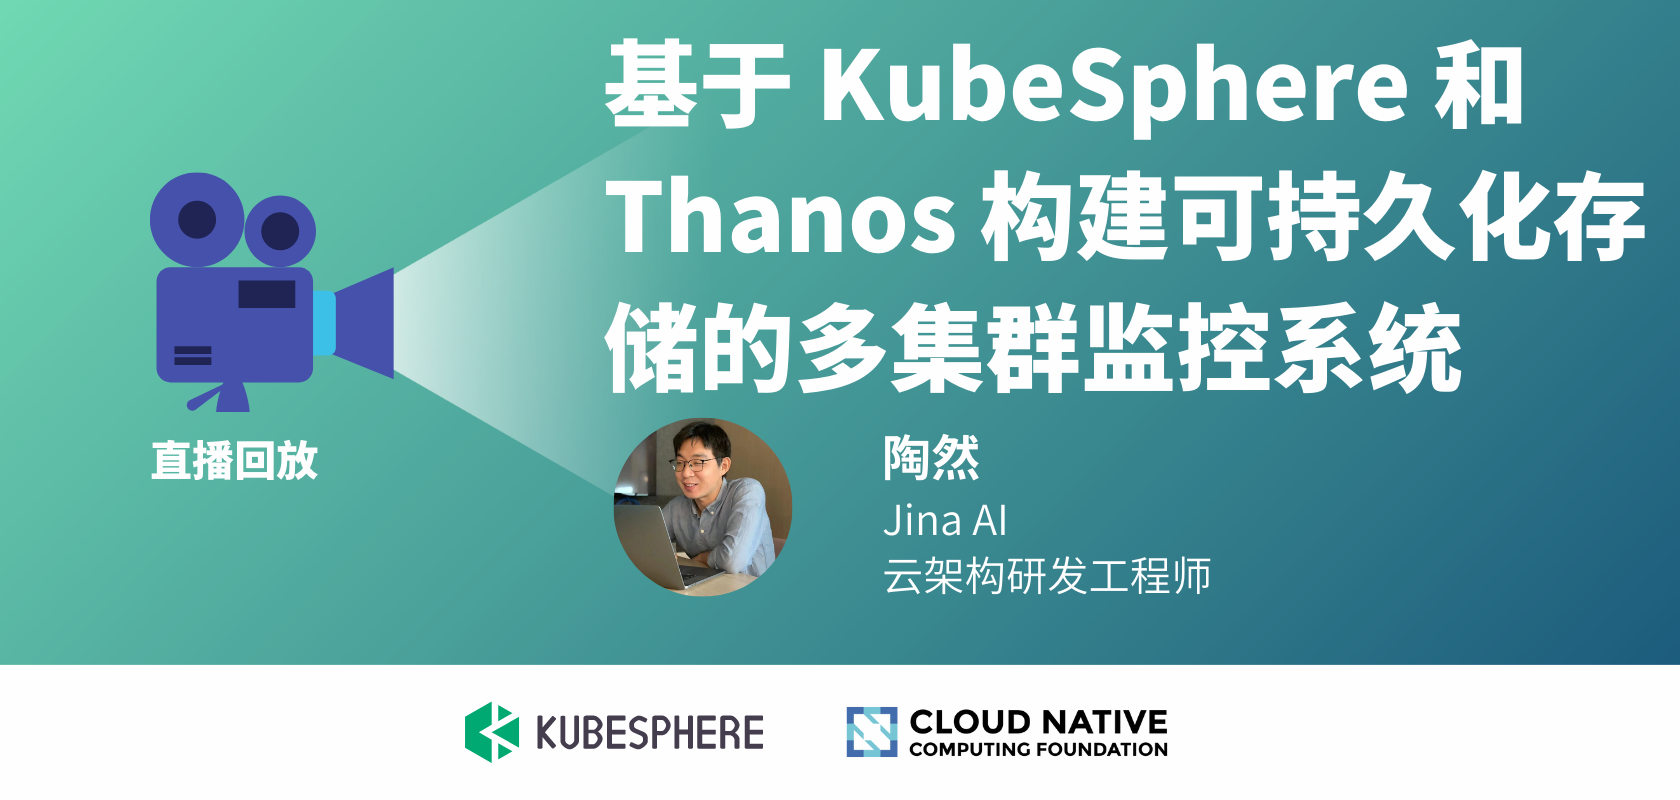
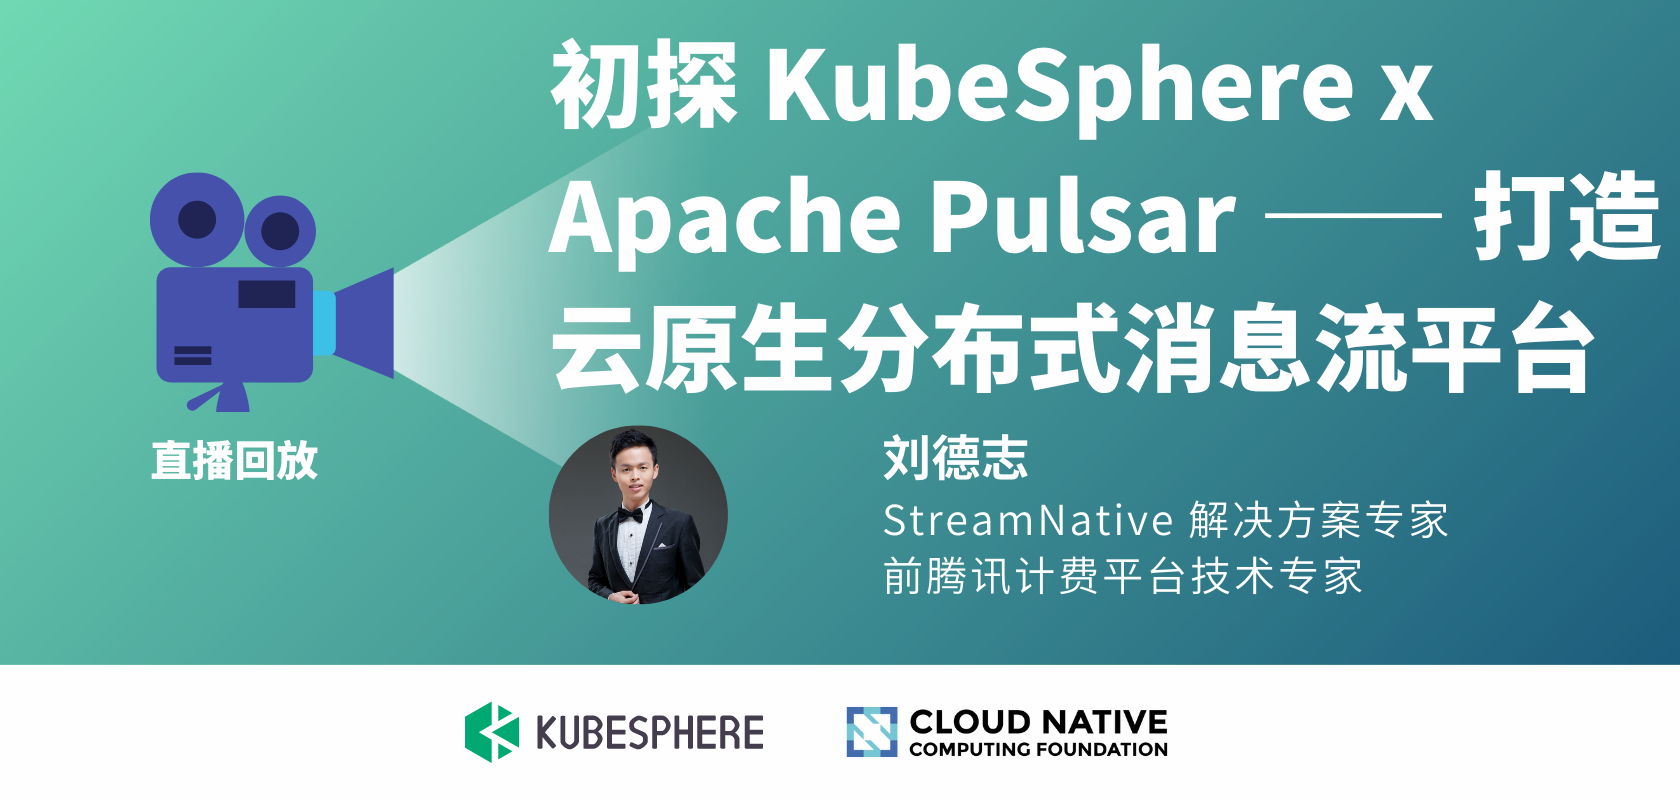
update the page of live

diff --git a/content/zh/live/pulsar0609-live.md b/content/zh/live/pulsar0609-live.md
@@ -6,7 +6,7 @@ css: scss/live-detail.scss
 
 section1:
   snapshot: 
-  videoUrl: 
+  videoUrl: //player.bilibili.com/player.html?aid=727291246&bvid=BV1xS4y1i7Yx&cid=742553663&page=1&high_quality=1
   type: iframe
   time: 2022-06-09 20:00-21:00
   timeIcon: /images/live/clock.svg
@@ -32,3 +32,35 @@ Apache Pulsar 是新一代云原生分布式消息队列，其独有的存储计
 ## 直播地址
 
 B 站  http://live.bilibili.com/22580654
+
+## PPT 下载
+
+可扫描官网底部二维码，关注 「KubeSphere云原生」公众号，后台回复 `20220609` 即可下载 PPT。
+
+## Q & A
+
+### Q1：Pulsar 是如何使用分层分片的架构来解决使用和运维的痛点的？
+
+A：Apache Pulsar 采用的计算存储分离的架构，首先可以更好的利用资源，根据计算层和存储层对资源的要求不同灵活搭配，以及使用情况进行细粒度资源调整。其次分片模式，突破以往 Topic 数据与机器强绑定的模式，避免了数据分布不均衡和扩容时带来大量数据迁移再平衡的问题，极大提升运维体验。
+
+### Q2：Pulsar 能够满足大数据计算框架中的批流一体的存储需求吗？
+
+A：本身Apache Pulsar 采用 Bookeeper 提供了流数据的存储，同时 Pulsar 提供了分级存储能力，可以将 Bookeeper 里的数据卸载到更低廉的存储介质中，例如 HDFS、S3 等，并且提供统一的读取接口，这样基于 Pulsar 能够提供完整的业务数据， 因此像大数据计算框架 Flink 可以利用 pulsar-flink-connector 实现批流计算。
+
+### Q3：Pulsar 和 Spark、Flink 以及批处理中的 Presto 和 Hive 结合有没有实践案例？
+
+A：Bigo 基于 Pulsar 和 Flink 构建了日百亿量级实时数仓，覆盖实时指标计算、用户特征实时更新等场景。智联招聘基于 Pulsar 和 Presto 构建了数据分析平台，支撑了内部报表统计和数据分析。
+
+### Q4：Apache Pulsar 如何保证消息不丢不重？
+
+A：当 broker 接收到写入请求时，会将数据写入到多个 bookie 节点中，也就是多副本保证，bookie 节点收到数据并且持久化成功后返回给 broker 成功应答，当收到一半以上节点的成功应答后，返回给客户端成功，代表该数据写入成功。在可靠性方面，bookie 提供机架感知能力和集群间的跨地域复制能里，来加强数据的可靠性。
+
+消息不重体现在两个方面，生产端的消息不重，对于单分区 Topic 而言，生产消息时可以指定递增的 sequenceId，broker 端根据当前的 sequenceId 和写入的 sequenceId 进行比较，如果小小于当前的 sequenceId 则认为已写入，需要去重。消费端的不重相对要复杂些，因为一个消息是否需要再次消费，取决于业务逻辑处理的情况和 ACK 的时机，例如消费端拉取到消息后，业务逻辑处理超时了，或者业务逻辑处理成功后消费端异常退出了，这种情况一般通过业务幂等来解决 ，当然也可以通过事务来处理。
+
+### Q5：Apache Pulsar 的协议有没有弱点？
+
+A：Apache Pulsar 自身有一套私有化协议，从性能上来看，对于消息体内容采用二进制透传的模式保证性能；从安全上来看，提供了丰富的身份认证和操作鉴权能力；从扩展性上来看，抽象了协议接口，可以方便集成其它协议，目前已支持 Kafka、AMDP、MQTT、RocketMQ 等协议。
+
+### Q6：StreamNative 花费了如此多的时间与精力在 Pulsar 与其社区生态上，是否会造成 Pulsar 与商业公司绑定，削弱项目的开源协作属性呢？
+
+A：Apache Pulsar 项目是 Apache 基金会顶级项目，本身项目的代码所有权、品牌和商标等都属于 Apache 软件基金会，日常由 PMC 管理，StreamNative 组织举办的 Pulsar Summit 、Pulsar Hackathon 每次举办都是经过 PMC 审核通过，组委会成员也要遵循多样性原则进行；日常 Pulsar 重要功能、版本发布，也都是经过社区严格的开发流程、投票流程进行。最根本的一点是 Apache 基金会的项目贡献，都是以个人名义贡献，贡献者只代表个人，这点和其他基金会有区别。 当前 Apache 软件基金会项目的运行规则和机制都保证了项目的独立性。

diff --git a/content/zh/live/_index.md b/content/zh/live/_index.md
@@ -10,22 +10,29 @@ section1:
 
 section2:
   image: /images/live/cloudnative-live-banner.png
-  url: ./jinaai0602-live/
+  url: ./pulsar0609-live/
 
   notice:
-    title: 初探 KubeSphere x Apache Pulsar —— 打造云原生分布式消息流平台
+    title: 云原生数据工厂——中海庭数字化转型之路
     tag: 预告
-    time: 2022 年 06 月 09 日晚 8 点
+    time: 2022 年 06 月 16 日晚 8 点
     base: 线上
-    url: ./pulsar0609-live/
+    url: ./headingdata0616-live/
 
   over:
-    title: 容器原生虚拟化：从 KubeVirt 到 KSV 虚拟化
-    url: ./ksv0526-live/
+    title: 基于 KubeSphere 和 Thanos 构建可持久化存储的多集群监控系统
+    url: ./jinaai0602-live/
     tag: 结束
 
 section3:
   videos:
+    - title: 初探 KubeSphere x Apache Pulsar —— 打造云原生分布式消息流平台
+      link: ./pulsar0609-live/
+      snapshot: https://pek3b.qingstor.com/kubesphere-community/images/pulsar0609-live-cover.png
+      type: iframe
+      createTime: 2022.06.09
+      group: 直播回放
+
     - title: 基于 KubeSphere 和 Thanos 构建可持久化存储的多集群监控系统
       link: ./jinaai0602-live/
       snapshot: https://pek3b.qingstor.com/kubesphere-community/images/jinaai0602-live-cover.png

diff --git a/content/zh/live/headingdata0616-live.md b/content/zh/live/headingdata0616-live.md
@@ -1,0 +1,37 @@
+---
+title: 云原生数据工厂——中海庭数字化转型之路
+description: 本次分享将会介绍中海庭在业务上引入以及实践云原生技术的过程，作为实例会讲解 Argo 结合 KubeSphere 在数据处理上的应用实践。
+keywords: KubeSphere, Kubernetes, 云原生数字化转型, Argo
+css: scss/live-detail.scss
+
+section1:
+  snapshot: 
+  videoUrl: 
+  type: iframe
+  time: 2022-06-16 20:00-21:00
+  timeIcon: /images/live/clock.svg
+  base: 线上
+  baseIcon: /images/live/base.svg
+---
+## 分享内容简介
+
+本次分享将会介绍中海庭在业务上引入以及实践云原生技术的过程，作为实例会讲解 Argo 结合 KubeSphere 在数据处理上的应用实践。
+
+## 讲师简介
+
+郭杨斌，中海庭云端平台科室经理，原东风畅行斑马快跑架构负责人。
+
+许维明，中海庭云端平台架构师，原 IBM DevOps 架构师。
+
+## 分享大纲
+
+![](https://pek3b.qingstor.com/kubesphere-community/images/headingdata0616-live.png)
+
+## 直播时间
+
+2022 年 06 月 16 日 20:00-21:00
+
+## 直播地址
+
+B 站  http://live.bilibili.com/22580654
+
